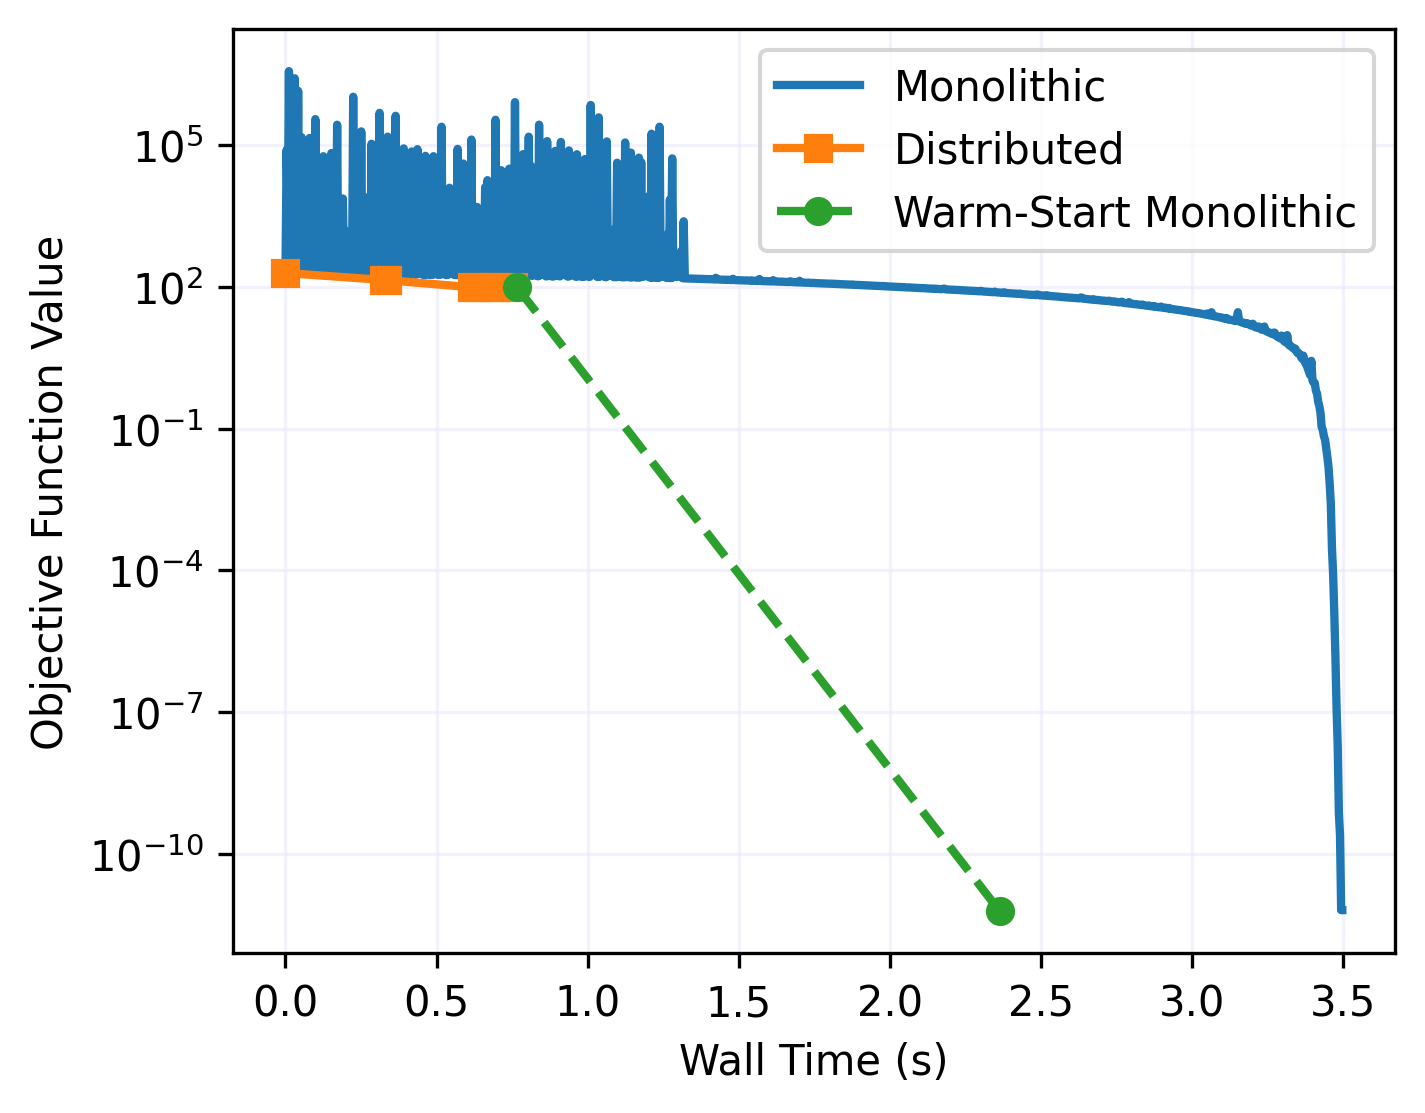
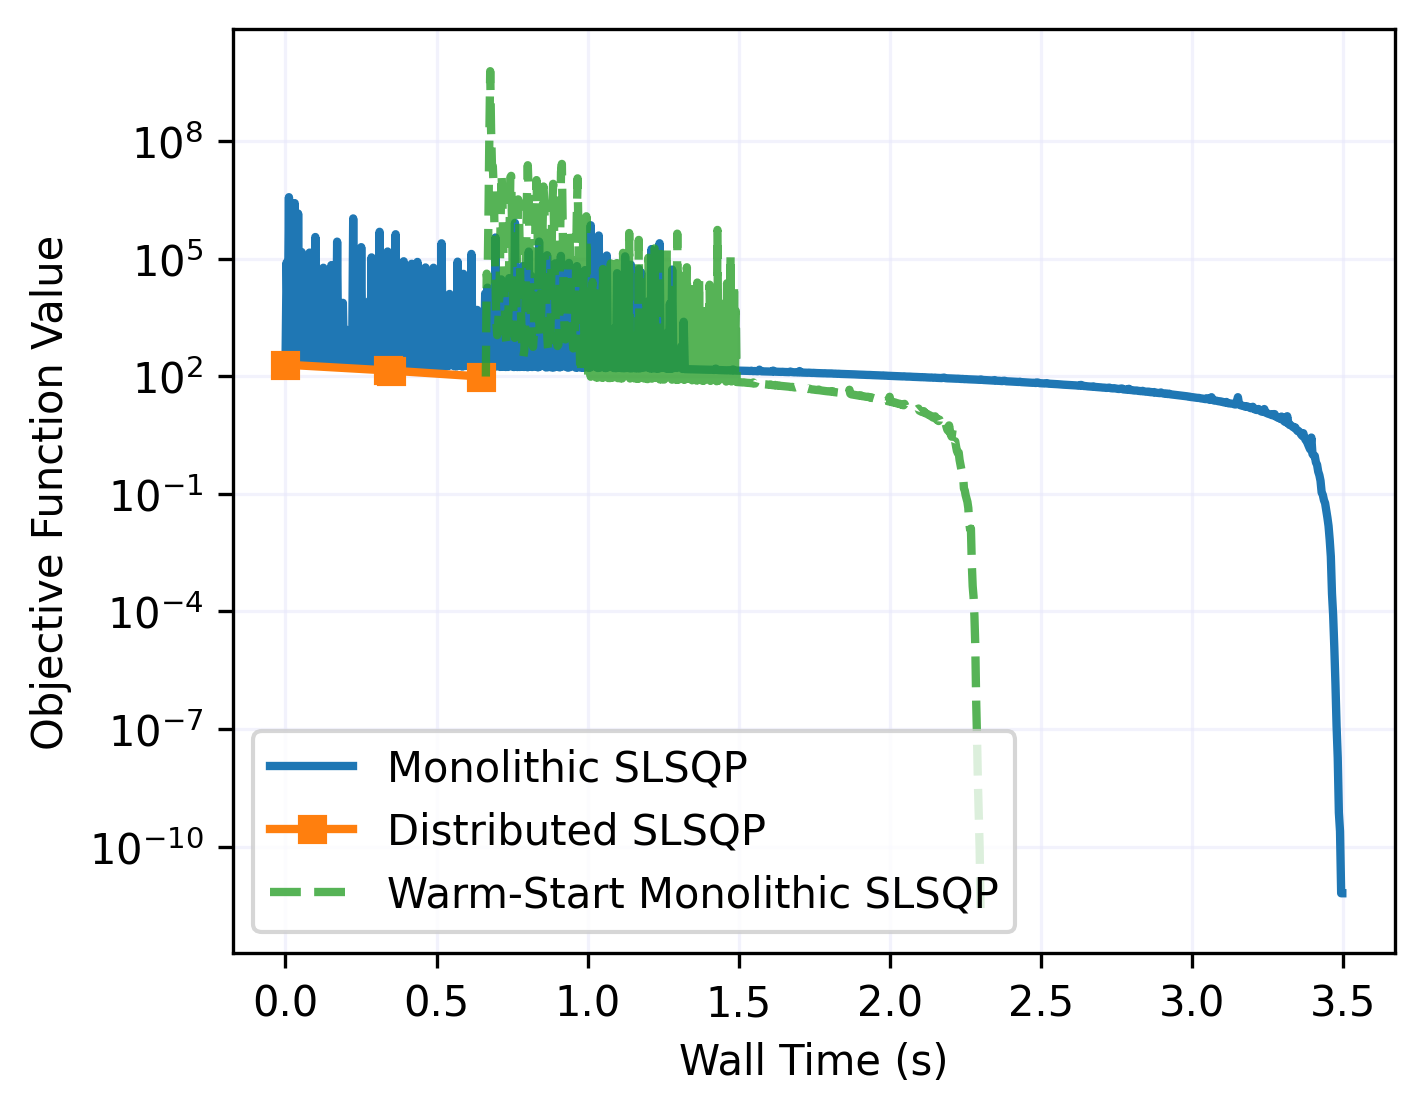
small changes to plotting

diff --git a/dev/distributed_rosenbrock_2.py b/dev/distributed_rosenbrock_2.py
@@ -137,7 +137,7 @@ opt = WarmPlex(blocks=subP_functions,
                problem=problem,
                x_init=v_init)
 
-opt.solve(max_iter=4,
+opt.solve(max_iter=2,
           tol=1e-9)
 
 print('Solution: ', opt.x_init)
@@ -171,18 +171,42 @@ monolithic_time = np.linspace(0, monolithic_time_200, len(monolithic_major))
 
 
 
+
+filename = 'slsqp_summary.out'
+# Read the header line separately
+with open(filename, 'r') as file: headers = file.readline().strip().split()
+warm_df = pd.read_csv(filename, delim_whitespace=True, skiprows=1, names=headers)
+
+warm_major = warm_df['MAJOR'].to_numpy()
+warm_optimality = warm_df['OPT']
+warm_feasibility = warm_df['FEAS']
+warm_objective = warm_df['OBJFUN'].to_numpy()
+
+
+with open('distributed_200.pkl', 'rb') as f:
+    data = pickle.load(f)
+    dist_objective = data['objective']
+    dist_time = data['time']
+
+
+
 plt.figure(figsize=(5,4))
 
-plt.semilogy(monolithic_time, monolithic_objective, color='tab:blue', linewidth=2, label='Monolithic')
+plt.semilogy(monolithic_time, monolithic_objective, color='tab:blue', linewidth=2, label='Monolithic SLSQP')
 # plt.plot(monolithic_time, monolithic_objective, color='tab:blue', linewidth=2, label='Monolithic')
 
-plt.semilogy(time[:-2], objective[:-2], color='tab:orange', linewidth=2, label='Distributed', marker='s')
-plt.semilogy(time[-2:], objective[-2:], color='tab:green', linewidth=2, label='Warm-Start Monolithic', marker='o', linestyle='--')
+plt.semilogy(time[:-2], objective[:-2], color='tab:orange', linewidth=2, label='Distributed SLSQP', marker='s')
+# plt.semilogy(time[-2:], objective[-2:], color='tab:green', linewidth=2, label='Warm-Start Monolithic', marker='o', linestyle='--')
+
+# plt.semilogy(dist_time, dist_objective, color='tab:purple', linewidth=2, label='Distributed', marker='s', alpha=0.7)
+
+warm_time = np.linspace(time[-2], time[-1], len(warm_major))
+# plt.semilogy(warm_time, warm_objective, color='tab:green', linewidth=2, label='Warm-Start Monolithic', marker='o', linestyle='--')
+plt.semilogy(warm_time, warm_objective, color='tab:green', linewidth=2, label='Warm-Start Monolithic SLSQP', linestyle='--', alpha=0.8)
 
 plt.ylabel('Objective Function Value')
 plt.xlabel('Wall Time (s)')
 plt.legend()
-# plt.ylim(1e-12, 1e5)
 plt.grid(color='lavender', alpha=0.5)
 
 plt.savefig('rosenbrock_warmstart.png', dpi=300, transparent=True, bbox_inches='tight')

diff --git a/dev/distributed_rosenbrock.py b/dev/distributed_rosenbrock.py
@@ -11,7 +11,7 @@ objective = []
 time = []
 
 n = 200
-N = 4
+N = 2
 
 def make_sub_problem(subp, N, n):
 
@@ -41,8 +41,8 @@ def make_sub_problem(subp, N, n):
 
         sim = csdl.experimental.JaxSimulator(recorder=recorder)
         prob = CSDLAlphaProblem(simulator=sim)
-        # optimizer = SLSQP(prob, solver_options={'maxiter': 300, 'ftol': 1E-6}, turn_off_outputs=True)
-        optimizer = PySLSQP(prob, solver_options={'maxiter': 300, 'acc': 1E-10}, turn_off_outputs=True)
+        # optimizer = SLSQP(prob, solver_options={'maxiter': 500, 'ftol': 1E-6}, turn_off_outputs=True)
+        optimizer = PySLSQP(prob, solver_options={'maxiter': 500, 'acc': 1E-10}, turn_off_outputs=True)
         results = optimizer.solve()
         optimizer.print_results()
 
@@ -73,8 +73,8 @@ if n % N != 0:
 size = int(n / N)
 
 v_init = []
-# for i in range(N): v_init.append(np.zeros(size))
-for i in range(N): v_init.append(np.ones(size) * -1)
+for i in range(N): v_init.append(np.zeros(size))
+# for i in range(N): v_init.append(np.ones(size) * -1)
 
 
 
@@ -92,11 +92,16 @@ print('Optimization time (s): ', time[-1])
 
 
 
-exit()
+objective.insert(0, 199.0)
+time.insert(0, 0.0)
 
-with open('distributed_400.pkl', 'wb') as f:
+# exit()
+
+with open('distributed_200.pkl', 'wb') as f:
     data = {'objective': objective, 'time': time}
     pickle.dump(data, f)
+
+exit()
 
 # parse the .out file
 filename = 'monolithic_400.out'

diff --git a/dev/rosenbrock.py b/dev/rosenbrock.py
@@ -5,17 +5,17 @@ from modopt import SLSQP, IPOPT, PySLSQP, SteepestDescent
 import pandas as pd
 import matplotlib.pyplot as plt
 
-n = 1000
+n = 200
 
-guess = np.array([-1.2, 1] * (n // 2))
+# guess = np.array([-1.2, 1] * (n // 2))
 # print(guess.shape)
 # exit()
 
 recorder = csdl.Recorder(inline=True)
 recorder.start()
 
-# x = csdl.Variable(value=np.zeros((n)))
-x = csdl.Variable(value=guess)
+x = csdl.Variable(value=np.zeros((n)))
+# x = csdl.Variable(value=guess)
 x.set_as_design_variable(scaler=1)
 
 f = 0
@@ -29,8 +29,8 @@ recorder.stop()
 sim = csdl.experimental.JaxSimulator(recorder=recorder)
 prob = CSDLAlphaProblem(simulator=sim)
 # optimizer = SLSQP(prob, solver_options={'maxiter': 1000, 'ftol': 1e-6}, turn_off_outputs=True)
-# optimizer = PySLSQP(prob, solver_options={'maxiter': 6000, 'acc': 1e-10}, turn_off_outputs=True)
-optimizer = IPOPT(prob, solver_options={'max_iter': 10000, 'tol': 1e-10}, turn_off_outputs=True)
+optimizer = PySLSQP(prob, solver_options={'maxiter': 6000, 'acc': 1e-10}, turn_off_outputs=True)
+# optimizer = IPOPT(prob, solver_options={'max_iter': 10000, 'tol': 1e-10}, turn_off_outputs=True)
 # optimizer = SteepestDescent(prob, maxiter=1000, opt_tol=1e-3, turn_off_outputs=True)
 results = optimizer.solve()
 optimizer.print_results()
